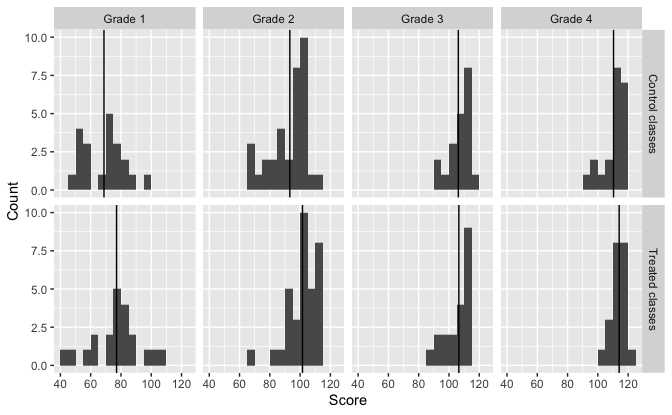
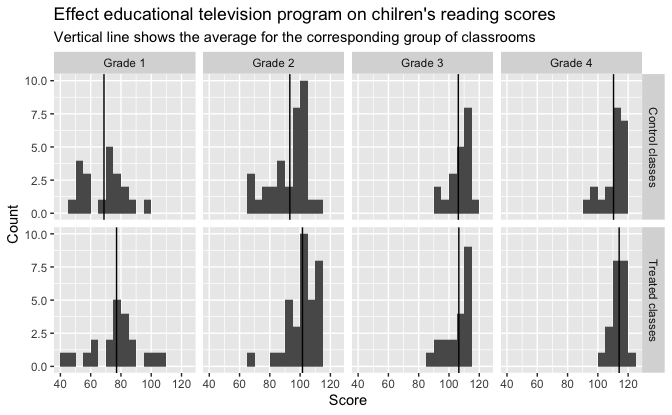
Initial commit

diff --git a/ElectricCompany/electric_tv.md b/ElectricCompany/electric_tv.md
@@ -1,7 +1,7 @@
 Regression and Other Stories: Electric Company
 ================
 Andrew Gelman, Jennifer Hill, Aki Vehtari
-2021-02-09
+2021-03-03
 
 -   [1 Overview](#1-overview)
     -   [1.3 Some examples of
@@ -39,7 +39,7 @@ source(file_common)
 
 ### A randomized experiment on the effect of an educational television program
 
-Data.
+Data
 
 ``` r
 electric_wide <- read_table2(file_electric_wide)
@@ -49,13 +49,13 @@ glimpse(electric_wide)
 
     #> Rows: 96
     #> Columns: 7
-    #> $ city             <chr> "Fresno", "Fresno", "Fresno", "Fresno", "Fresno", "F…
-    #> $ grade            <dbl> 1, 1, 1, 1, 1, 1, 1, 1, 1, 1, 1, 2, 2, 2, 2, 2, 2, 2…
-    #> $ treated_pretest  <dbl> 13.8, 16.5, 18.5, 8.8, 15.3, 15.0, 19.4, 15.0, 11.8,…
-    #> $ treated_posttest <dbl> 48.9, 70.5, 89.7, 44.2, 77.5, 84.7, 78.9, 86.8, 60.8…
-    #> $ control_pretest  <dbl> 12.3, 14.4, 17.7, 11.5, 16.4, 16.8, 18.7, 18.2, 15.4…
-    #> $ control_posttest <dbl> 52.3, 55.0, 80.4, 47.0, 69.7, 74.1, 72.7, 97.3, 74.1…
-    #> $ supplement       <chr> "Supplement", "Replace", "Supplement", "Replace", "S…
+    #> $ city             <chr> "Fresno", "Fresno", "Fresno", "Fresno", "Fresno", "Fr…
+    #> $ grade            <dbl> 1, 1, 1, 1, 1, 1, 1, 1, 1, 1, 1, 2, 2, 2, 2, 2, 2, 2,…
+    #> $ treated_pretest  <dbl> 13.8, 16.5, 18.5, 8.8, 15.3, 15.0, 19.4, 15.0, 11.8, …
+    #> $ treated_posttest <dbl> 48.9, 70.5, 89.7, 44.2, 77.5, 84.7, 78.9, 86.8, 60.8,…
+    #> $ control_pretest  <dbl> 12.3, 14.4, 17.7, 11.5, 16.4, 16.8, 18.7, 18.2, 15.4,…
+    #> $ control_posttest <dbl> 52.3, 55.0, 80.4, 47.0, 69.7, 74.1, 72.7, 97.3, 74.1,…
+    #> $ supplement       <chr> "Supplement", "Replace", "Supplement", "Replace", "Su…
 
 ``` r
 electric <- 
@@ -85,7 +85,7 @@ electric
     #> 10 Fresno     1 Supplement treated posttest  89.7
     #> # … with 374 more rows
 
-Plot of raw data.
+Effect educational television program on chilren’s reading scores.
 
 ``` r
 electric_post <- 
@@ -115,6 +115,10 @@ electric_post %>%
     labeller = labeller(grade = grade_labels, group = group_labels)
   ) + 
   labs(
+    title = 
+      "Effect educational television program on chilren's reading scores",
+    subtitle = 
+      "Vertical line shows the average for the corresponding group of classrooms",
     x = "Score",
     y = "Count"
   )
